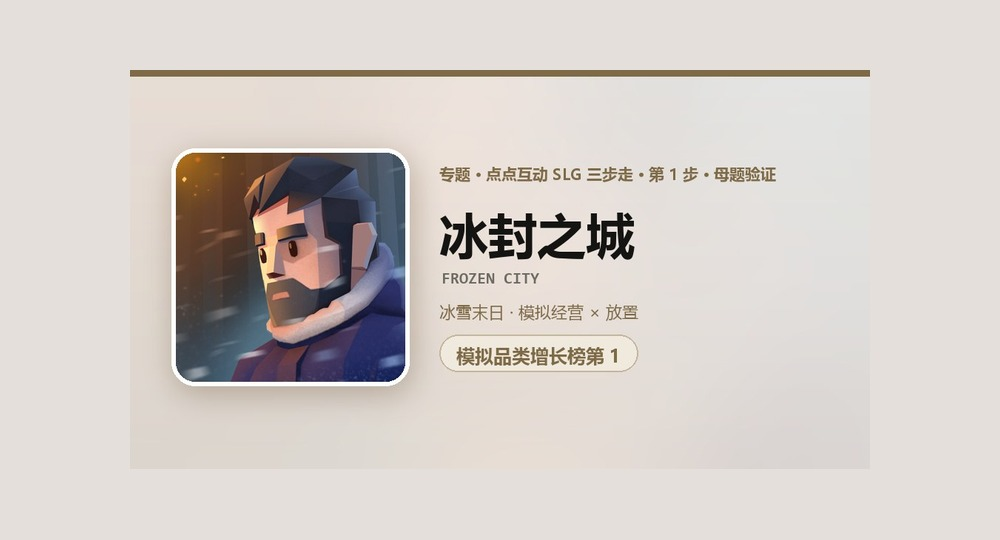
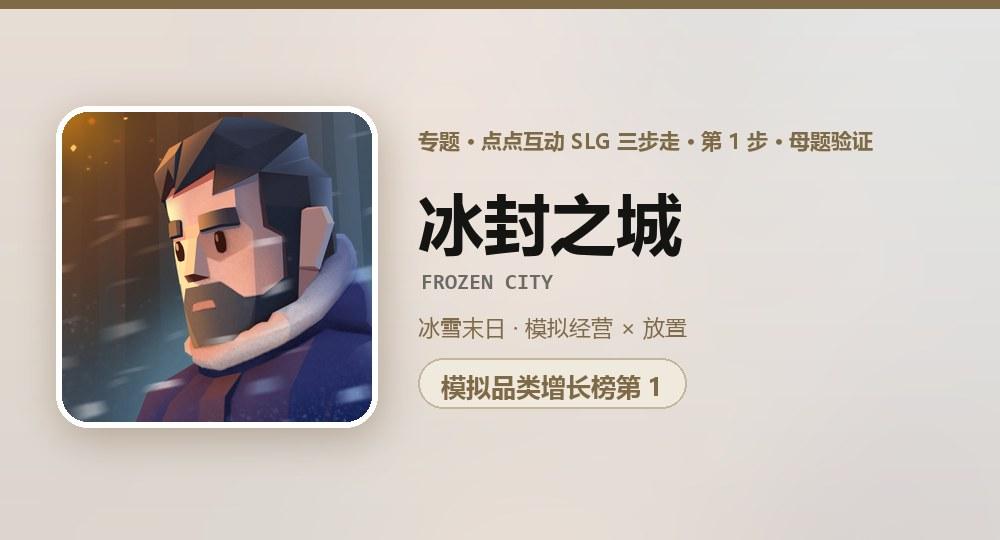
feat: 产品拆解三张卡恢复专题封面(还原为满幅原图，不再缩进74%)——此时容器已是固定16:9等宽，图片只裁约4%不会切到内容

Changed region(s): [[0.031, 0.1778, 0.868, 0.8593], [0.0, 0.0, 1.0, 0.0296], [0.124, 0.1185, 0.868, 0.1481]]

diff --git a/assets/js/data.js b/assets/js/data.js
@@ -638,6 +638,7 @@ window.WORKS = [
   {
     title: "《无尽冬日》Whiteout Survival · 产品拆解",
     desc: "点点互动 SLG 三步走 · 第 2 步（叠加重度）：在已验证的母题上加地图 SLG，用「建造爽感」获客、用「时间墙」变现。",
+    thumb: "assets/img/拆解-无尽冬日.jpg",
     value: "卖的不是 SLG，是建造爽感；变现的不是内容，是等待与并发。",
     metrics: [
       { k: "玩法结构" }, { k: "时间墙" }, { k: "商业化" }, { k: "市场表现" }
@@ -764,8 +765,8 @@ window.WORKS = [
     title: "《Kingshot》国王战争 · 产品拆解",
     desc: "点点互动 SLG 三步走 · 第 3 步（更换钩子）：验证「换掉获客钩子、保留付费骨架」这套公式能不能再赢一次。",
 
+    thumb: "assets/img/拆解-Kingshot.jpg",
     value: "可复制的是骨架，不是钩子——创新被精确限制在漏斗最上层。",
-    /* 卡面图待用户提供，暂时使用默认卡面（渐变 + 条纹） */
     metrics: [
       { k: "三级漏斗" }, { k: "联盟系统" }, { k: "商业化" }, { k: "市场表现" }
     ],
@@ -907,7 +908,7 @@ window.WORKS = [
   {
     title: "《Frozen City》冰封之城 · 产品拆解",
     desc: "点点互动 SLG 三步走 · 第 1 步（母题验证）：《无尽冬日》的玩法试验田，拆它才看得懂 WoS 为什么「上线即成熟」。",
-
+    thumb: "assets/img/拆解-FrozenCity.jpg",
     value: "母题先验证、系统后叠加——Frozen City + 大地图 SLG ≈ Whiteout Survival。",
     metrics: [
       { k: "三层结构" }, { k: "系统血缘" }, { k: "商业化" }, { k: "市场表现" }
